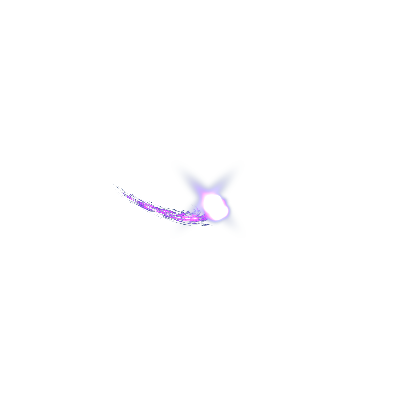
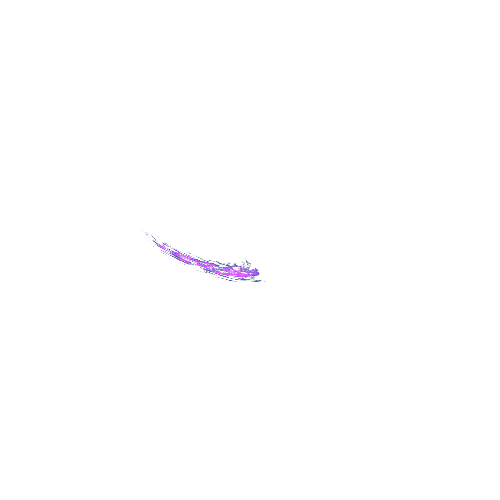
斬擊特效更新及刀光素材分離

Changed region(s): [[0.36, 0.42, 0.57, 0.57], [0.3, 0.48, 0.36, 0.51], [0.57, 0.51, 0.6, 0.54]]

diff --git a/src/script/CharacterInit.ts b/src/script/CharacterInit.ts
@@ -512,10 +512,10 @@ export class Character extends Laya.Script {
         slashEffect.scaleY = 2;
 
         if(this.m_atkStep === 0){
-            slashEffect.source = "comp/NewSlash/Slash_0030.png,comp/NewSlash/Slash_0031.png,comp/NewSlash/Slash_0032.png,comp/NewSlash/Slash_0033.png,comp/NewSlash/Slash_0034.png,comp/NewSlash/Slash_0035.png,comp/NewSlash/Slash_0036.png,comp/NewSlash/Slash_0037.png";
+            slashEffect.source = "comp/NewSlash/Slash_0030.png,comp/NewSlash/Slash_0031.png,comp/NewSlash/Slash_0032.png";
         }
         else if(this.m_atkStep === 1){
-            slashEffect.source = "comp/NewSlash/Slash_0037.png,comp/NewSlash/Slash_0036.png,comp/NewSlash/Slash_0035.png,comp/NewSlash/Slash_0034.png,comp/NewSlash/Slash_0033.png,comp/NewSlash/Slash_0032.png,comp/NewSlash/Slash_0031.png,comp/NewSlash/Slash_0030.png";
+            slashEffect.source = "comp/NewSlash/Slash_0032.png,comp/NewSlash/Slash_0031.png,comp/NewSlash/Slash_0030.png";
         }
 
         //slashEffect.interval = 100;
@@ -523,12 +523,12 @@ export class Character extends Laya.Script {
         //濾鏡
         let colorMat: Array<number> =
         [
-            colorNum, 0, 0, 0, -100, //R
-            0, Math.floor(Math.random() * 2) + 1, 0, 0, -100, //G
-            0, 0, colorNum, 0, -100, //B
+            colorNum, 0, 4, 0, -150, //R
+            3, Math.floor(Math.random() * 4) + 2, 0, 0, -150, //G
+            0, 0, colorNum, 0, -150, //B
             0, 0, 0, 1, 0, //A
         ];
-        let glowFilter: Laya.GlowFilter = new Laya.GlowFilter("#9b05ff", 20, 0, 0);
+        let glowFilter: Laya.GlowFilter = new Laya.GlowFilter("#af06ff", 10, 0, 0);
         let colorFilter: Laya.ColorFilter = new Laya.ColorFilter(colorMat);
         if (!OathManager.isCharging) {
         slashEffect.filters = [colorFilter, glowFilter];
@@ -547,13 +547,13 @@ export class Character extends Laya.Script {
         //濾鏡
         if (this.m_isFacingRight) {
             slashEffect.skewY = 0;
-            slashEffect.pos(player.x - 275, player.y - 400 + 10);
+            slashEffect.pos(player.x - 350, player.y - 470 + 10);
         } else {
             slashEffect.skewY = 180;
-            slashEffect.pos(player.x + 275, player.y - 400 + 10);
+            slashEffect.pos(player.x + 350, player.y - 470 + 10);
         }
-        slashEffect.source =
-        "comp/NewSlash/Slash_0030.png,comp/NewSlash/Slash_0031.png,comp/NewSlash/Slash_0032.png,comp/NewSlash/Slash_0033.png,comp/NewSlash/Slash_0034.png,comp/NewSlash/Slash_0035.png,comp/NewSlash/Slash_0036.png,comp/NewSlash/Slash_0037.png";
+        // slashEffect.source =
+        // "comp/NewSlash/Slash_0030.png,comp/NewSlash/Slash_0031.png,comp/NewSlash/Slash_0032.png,comp/NewSlash/Slash_0033.png,comp/NewSlash/Slash_0034.png,comp/NewSlash/Slash_0035.png,comp/NewSlash/Slash_0036.png,comp/NewSlash/Slash_0037.png";
         slashEffect.on(Laya.Event.COMPLETE, this, function () {
         slashEffect.destroy();
         slashEffect.destroyed = true;

diff --git a/bin/js/bundle.js b/bin/js/bundle.js
@@ -1139,19 +1139,19 @@
             slashEffect.scaleX = 2;
             slashEffect.scaleY = 2;
             if (this.m_atkStep === 0) {
-                slashEffect.source = "comp/NewSlash/Slash_0030.png,comp/NewSlash/Slash_0031.png,comp/NewSlash/Slash_0032.png,comp/NewSlash/Slash_0033.png,comp/NewSlash/Slash_0034.png,comp/NewSlash/Slash_0035.png,comp/NewSlash/Slash_0036.png,comp/NewSlash/Slash_0037.png";
+                slashEffect.source = "comp/NewSlash/Slash_0030.png,comp/NewSlash/Slash_0031.png,comp/NewSlash/Slash_0032.png";
             }
             else if (this.m_atkStep === 1) {
-                slashEffect.source = "comp/NewSlash/Slash_0037.png,comp/NewSlash/Slash_0036.png,comp/NewSlash/Slash_0035.png,comp/NewSlash/Slash_0034.png,comp/NewSlash/Slash_0033.png,comp/NewSlash/Slash_0032.png,comp/NewSlash/Slash_0031.png,comp/NewSlash/Slash_0030.png";
+                slashEffect.source = "comp/NewSlash/Slash_0032.png,comp/NewSlash/Slash_0031.png,comp/NewSlash/Slash_0030.png";
             }
             let colorNum = Math.floor(Math.random() * 3) + 2;
             let colorMat = [
-                colorNum, 0, 0, 0, -100,
-                0, Math.floor(Math.random() * 2) + 1, 0, 0, -100,
-                0, 0, colorNum, 0, -100,
+                colorNum, 0, 4, 0, -150,
+                3, Math.floor(Math.random() * 4) + 2, 0, 0, -150,
+                0, 0, colorNum, 0, -150,
                 0, 0, 0, 1, 0,
             ];
-            let glowFilter = new Laya.GlowFilter("#9b05ff", 20, 0, 0);
+            let glowFilter = new Laya.GlowFilter("#af06ff", 10, 0, 0);
             let colorFilter = new Laya.ColorFilter(colorMat);
             if (!OathManager.isCharging) {
                 slashEffect.filters = [colorFilter, glowFilter];
@@ -1169,14 +1169,12 @@
             }
             if (this.m_isFacingRight) {
                 slashEffect.skewY = 0;
-                slashEffect.pos(player.x - 275, player.y - 400 + 10);
+                slashEffect.pos(player.x - 350, player.y - 470 + 10);
             }
             else {
                 slashEffect.skewY = 180;
-                slashEffect.pos(player.x + 275, player.y - 400 + 10);
+                slashEffect.pos(player.x + 350, player.y - 470 + 10);
             }
-            slashEffect.source =
-                "comp/NewSlash/Slash_0030.png,comp/NewSlash/Slash_0031.png,comp/NewSlash/Slash_0032.png,comp/NewSlash/Slash_0033.png,comp/NewSlash/Slash_0034.png,comp/NewSlash/Slash_0035.png,comp/NewSlash/Slash_0036.png,comp/NewSlash/Slash_0037.png";
             slashEffect.on(Laya.Event.COMPLETE, this, function () {
                 slashEffect.destroy();
                 slashEffect.destroyed = true;
@@ -1439,7 +1437,7 @@
     GameConfig.screenMode = "none";
     GameConfig.alignV = "middle";
     GameConfig.alignH = "center";
-    GameConfig.startScene = "First.scene";
+    GameConfig.startScene = "Village.scene";
     GameConfig.sceneRoot = "";
     GameConfig.debug = false;
     GameConfig.stat = true;

diff --git a/src/GameConfig.ts b/src/GameConfig.ts
@@ -13,7 +13,7 @@ export default class GameConfig{
     static screenMode:string="none";
     static alignV:string="middle";
     static alignH:string="center";
-    static startScene:any="First.scene";
+    static startScene:any="Village.scene";
     static sceneRoot:string="";
     static debug:boolean=false;
     static stat:boolean=true;
